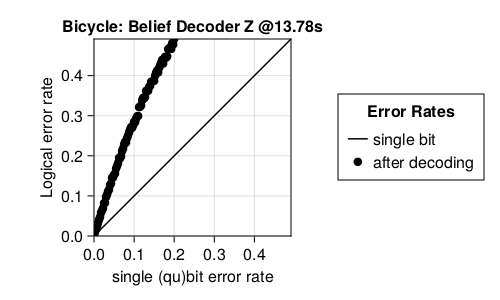
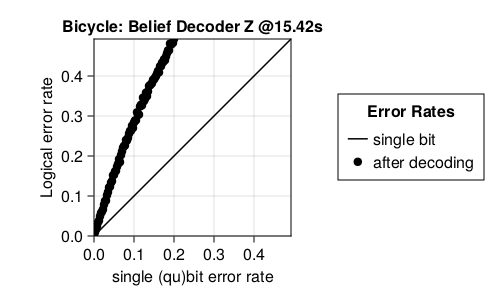
Post-merge page generation
- Created pages for Shor-9, Steane-7, and Bicycle codes
- Prepared code for being added to live site

diff --git a/docs/codes/Shor-9.md b/docs/codes/Shor-9.md
@@ -1,0 +1,37 @@
+# Shor9
+
+## Description
+ - Nine-qubit CSS code that is the first quantum error-correcting code.
+
+## Example
+Code Tableau:
+ZZ_______
+_ZZ______
+___ZZ____
+____ZZ___
+______ZZ_
+_______ZZ
+XXXXXX___
+___XXXXXX
+- Number of qubits: N = 9
+- Number of encoded bits: k = 1
+### Syndrome Circuit:
+![Shor-9 Syndrome Circuit](images\codeplots\Shor-9-codeplot.png)
+
+## Benchmarking Results
+This code was tested with the following decoders:
+**Lookup table:** Ran in 1.866s
+![Shor-9 Truth Table PP](images\performanceplots\Shor-9-lookuptable.png)
+**Belief decoder:** Ran in 42.28s
+![Shor-9 Belief Decoder PP](images\performanceplots\Shor-9-belief.png)
+
+## 
+
+## ["QASM Downloads", "[QASM Encoding Circuit](QASMDownloads\\Shor-9-encodingCircuit.qasm)"]
+
+## Similar Codes 
+- **[sample name](sample link)**: short desc
+- **[Surface Code](https://www.nature.com/articles/s41586-022-05434-1)**: This is a surface code hehe
+
+## References
+Nathanan Tantivasadakarn and Ruben Verresen and Ashvin Vishwanath, Shortest Route to Non-Abelian Topological Order on a Quantum Processor, Physical Review Letters, [DOI](https://doi.org/10.1103/PhysRevLett.131.060405)

diff --git a/docs/codes/Bicycle.md b/docs/codes/Bicycle.md
@@ -18,9 +18,9 @@ Z__ZZZ_
 
 ## Benchmarking Results
 This code was tested with the following decoders:
-**Lookup table:** Ran in 0.362s
+**Lookup table:** Ran in 0.4064s
 ![Bicycle Truth Table PP](images\performanceplots\Bicycle-lookuptable.png)
-**Belief decoder:** Ran in 13.78s
+**Belief decoder:** Ran in 15.42s
 ![Bicycle Belief Decoder PP](images\performanceplots\Bicycle-belief.png)
 
 ## 
@@ -31,4 +31,4 @@ This code was tested with the following decoders:
 - **[Unicycle Codes](https://arxiv.org/abs/quant-ph/0304161)**: Circulant code based on perfect difference sets
 
 ## References
-David J.C. MacKay, Graeme Mitchison, Paul L. McFadden, Sparse Graph Codes for Quantum Error-Correction, IEEE Transactions on Information Theory, Vol. 50, No. 10, p. 2315 (2004), [DOI](https://doi.org/https://ieeexplore.ieee.org/document/1337106)
+David J.C. MacKay, Graeme Mitchison, Paul L. McFadden, Sparse Graph Codes for Quantum Error-Correction, IEEE Transactions on Information Theory, Vol. 50, No. 10, p. 2315 (2004), [DOI](https://doi.org/10.1109/TIT.2004.834737)

diff --git a/docs/codes/Steane-7.md b/docs/codes/Steane-7.md
@@ -19,9 +19,9 @@ Z_Z_Z_Z
 
 ## Benchmarking Results
 This code was tested with the following decoders:
-**Lookup table:** Ran in 0.4369s
+**Lookup table:** Ran in 0.3927s
 ![Steane-7 Truth Table PP](images\performanceplots\Steane-7-lookuptable.png)
-**Belief decoder:** Ran in 7.355s
+**Belief decoder:** Ran in 7.398s
 ![Steane-7 Belief Decoder PP](images\performanceplots\Steane-7-belief.png)
 
 ## 
@@ -32,4 +32,4 @@ This code was tested with the following decoders:
 - **[Shor-9](https://math.mit.edu/~shor/papers/good-codes.pdf)**: Degenerate CSS code designed to account for parity errors
 
 ## References
-Andrew Steane, Multiple Particle Interference and Quantum Error Correction, Proc.Roy.Soc.Lond. A452 (1996) 2551, [DOI](https://doi.org/https://doi.org/10.1098/rspa.1996.0136)
+Andrew Steane, Multiple Particle Interference and Quantum Error Correction, Proc.Roy.Soc.Lond. A452 (1996) 2551, [DOI](https://doi.org/10.1098/rspa.1996.0136)
